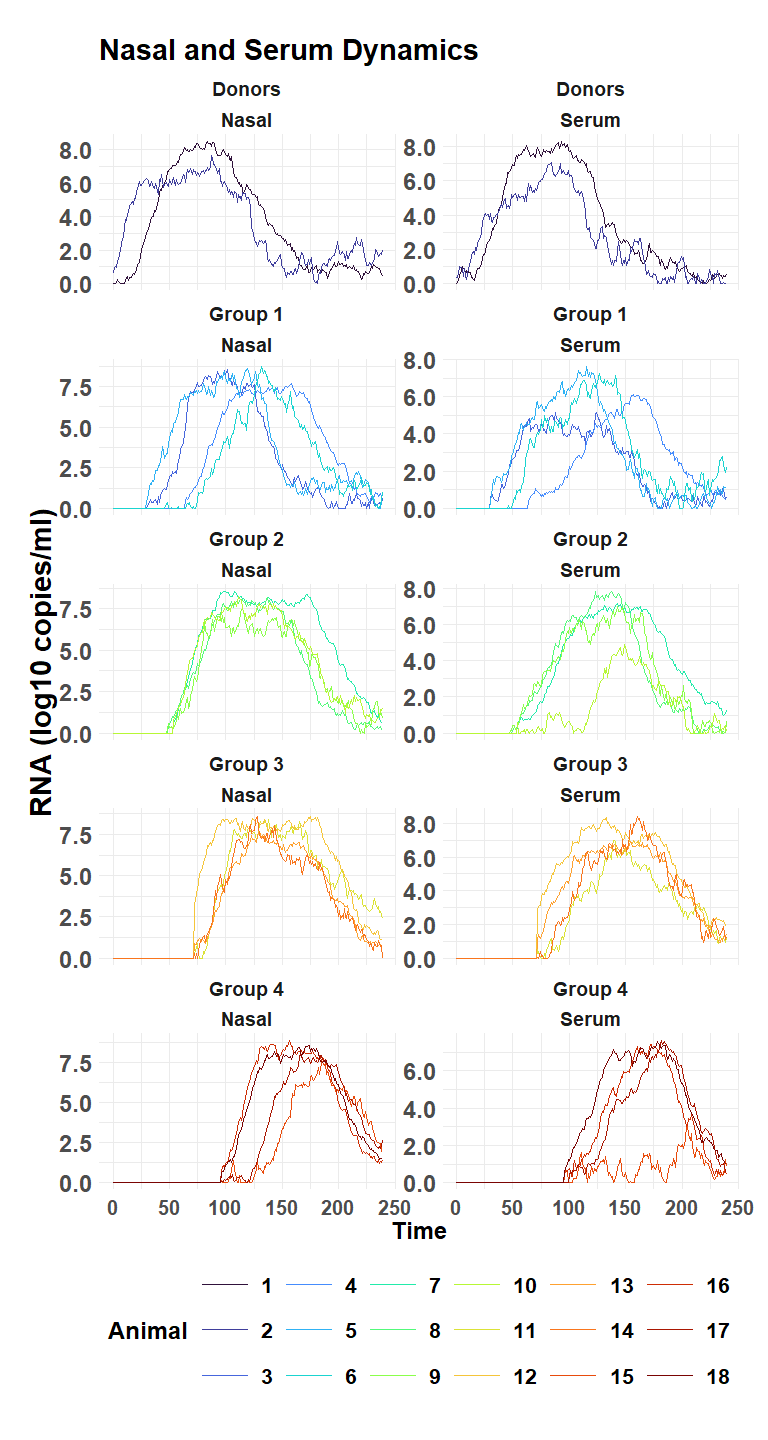
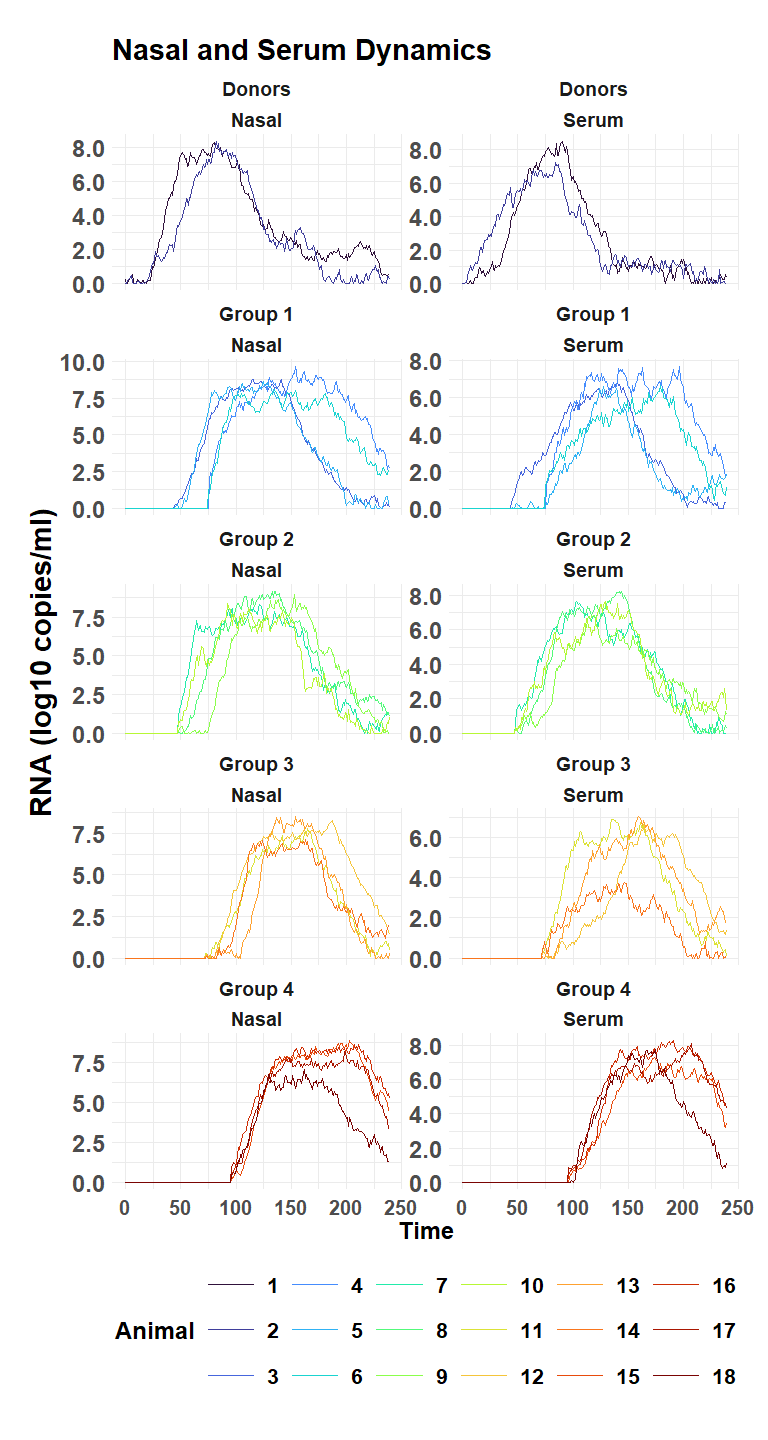
update functions

diff --git a/overview.md b/overview.md
@@ -64,7 +64,7 @@ seed_val
 
 </details>
 
-    [1] 153
+    [1] 220
 
 <details open>
 <summary>Hide code</summary>
